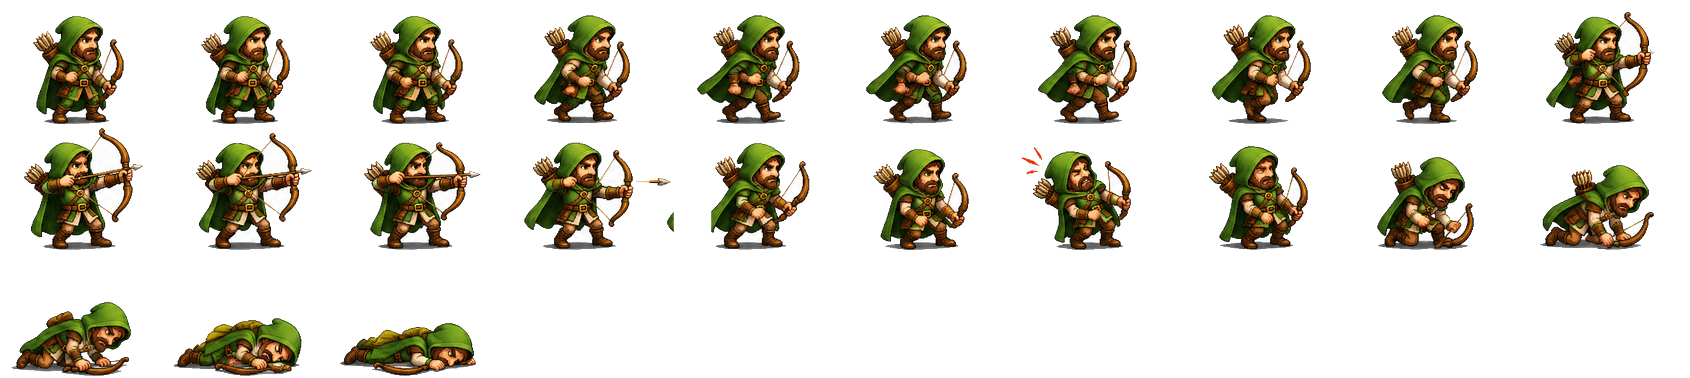
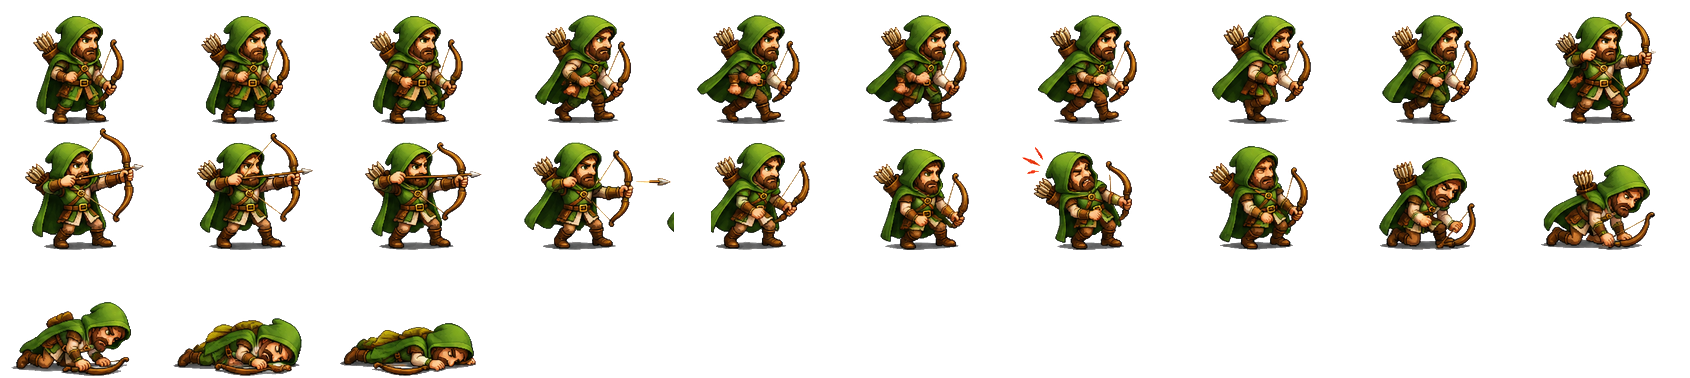
v0.8.1: geen witte vlakken meer in sprites
Ingesloten witte achtergrond (binnen de boog, tussen benen, in kanonwielen) werd
niet verwijderd omdat alleen vanaf de rand werd weggehaald. Nu worden ook
ingesloten witte vlakken vanaf 30 bronpixels transparant; oogwit en glimlicht
blijven. Randpixels worden ontmengd van wit, zodat er geen witte rand overblijft.

Claude-Session: https://claude.ai/code/session_01G3ZjrAEdzY3bS4o8QwE679

diff --git a/tools/art/extract.py b/tools/art/extract.py
@@ -4,6 +4,8 @@ from scipy import ndimage as ndi
 
 def load(p): return np.array(Image.open(p).convert('RGB')).astype(np.int16)
 
+HOLE_MIN = 30   # bronpixels
+
 def fg_mask(a, bg='white', tol=28):
     """Voorgrond = alles wat niet via de rand verbonden is met achtergrondkleur."""
     if bg=='white':
@@ -17,6 +19,14 @@ def fg_mask(a, bg='white', tol=28):
     lab,n=ndi.label(bgish)
     edge=set(np.unique(np.concatenate([lab[0],lab[-1],lab[:,0],lab[:,-1]])))-{0}
     bgm=np.isin(lab,list(edge))
+    if bg=='white':
+        # Ingesloten witte vlakken (binnen een boog, tussen benen) zijn ook achtergrond.
+        # Kleine stukjes (oogwit, glimlicht) blijven staan.
+        holes=(mn>=234)&(mx-mn<16)&~bgm
+        hl,hn=ndi.label(holes)
+        if hn:
+            sizes=ndi.sum(holes,hl,range(1,hn+1))
+            bgm|=np.isin(hl,[i+1 for i,s in enumerate(sizes) if s>=HOLE_MIN])
     fg=~bgm
     fg=ndi.binary_opening(fg,iterations=1)
     lab,n=ndi.label(fg)
@@ -87,3 +97,17 @@ def split_at(fg, box, xs):
         mm=fg[y0:y1,edges[i]:edges[i+1]]; ys=np.where(mm.any(1))[0]; xx=np.where(mm.any(0))[0]
         out.append((edges[i]+xx[0],y0+ys[0],edges[i]+xx[-1]+1,y0+ys[-1]+1))
     return out
+
+
+def matte(rgb, m, band=2):
+    """Zachte rand: alpha uit 'hoe wit' een randpixel is, en kleur ontmengen van wit."""
+    rgb=rgb.astype(np.float32); alpha=m.astype(np.float32)
+    inner=ndi.binary_erosion(m,iterations=band)
+    edge=m&~inner
+    a=np.clip((255-rgb.min(2))/70.0,0.0,1.0)
+    alpha[edge]=np.maximum(a[edge],0.0)
+    # transparante gaten tussen randpixels niet laten 'uitlopen'
+    al=alpha[...,None]
+    un=np.where(al>0.05,(rgb-255*(1-al))/np.maximum(al,0.05),rgb)
+    out=np.where(edge[...,None],un,rgb)
+    return out.clip(0,255).astype(np.uint8),(alpha*255).astype(np.uint8)

diff --git a/tools/art/units.py b/tools/art/units.py
@@ -54,10 +54,7 @@ def build(OUT, name, groups, target_h, ref_group, variants):
     sheets={v:Image.new('RGBA',(cw*cols,ch*rows),(0,0,0,0)) for v in variants}
     for anim,rgb,m,ax in items:
         for v,fn in variants.items():
-            col=fn(rgb,m)
-            alpha=(m*255).astype(np.uint8)
-            edge=m & ~ndi.binary_erosion(m,iterations=1)
-            alpha[edge]=150
+            col,alpha=matte(fn(rgb,m),m)
             im=Image.fromarray(np.dstack([col,alpha]),'RGBA')
             # premultiplied resize voorkomt witte randen
             w2=max(1,int(round(m.shape[1]*scale))); h2=max(1,int(round(m.shape[0]*scale)))
